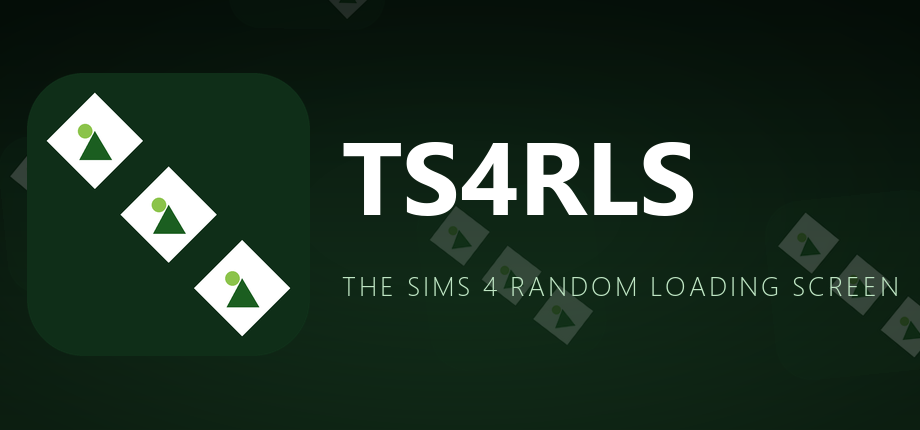
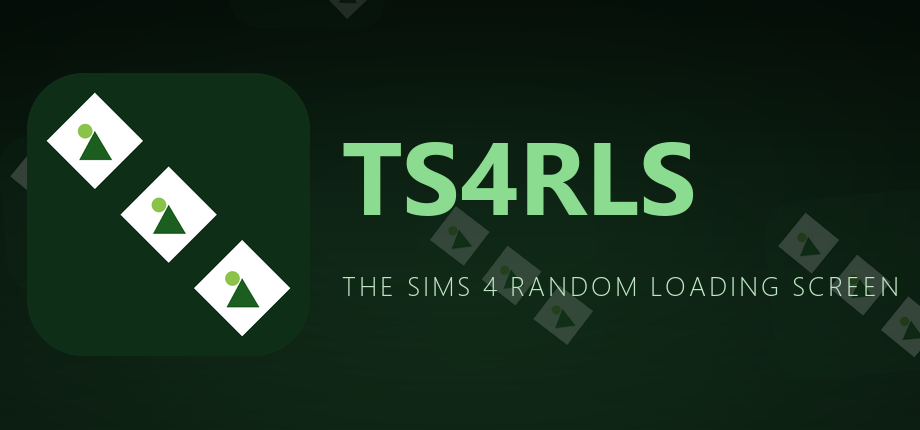
Release v2.0.3
See CHANGELOG.md for details.

Changed region(s): [[0.3652, 0.3326, 0.7609, 0.514]]

diff --git a/CHANGELOG.md b/CHANGELOG.md
@@ -14,8 +14,13 @@ feature additions, PATCH marks fixes.
   fixed-width image with a large empty margin on the right.
 - `assets/steam/logo_dark.png`/`logo_light.png` (the Steam "Library logo"
   slot) was missing the "TS4RLS" shortcode entirely (subtitle only) —
-  added it back in a lighter green readable against the transparent
-  background regardless of what it's composited over.
+  added it back.
+- All four `assets/steam/*_dark.png`/`*_light.png` assets (cover, wide
+  cover, background, logo) now use the same green-tinted title/subtitle
+  colors — `cover.png`/`wide_cover.png` previously used plain
+  white/near-black text, inconsistent with the logo asset.
+- `assets/logo_dark.png`/`logo_light.png` (the top-level wordmark) now use
+  the exact same green-tint text colors as their `assets/steam/` counterparts.
 
 ## [2.0.2] - 2026-09-10
 

diff --git a/README.md b/README.md
@@ -9,7 +9,7 @@
 
 Automatically picks a random image from a folder and installs it as your Sims 4 loading screen mod — run it before launching the game and get a fresh screen every time.
 
-**Version 2.0.2** — see [CHANGELOG.md](CHANGELOG.md) for release history.
+**Version 2.0.3** — see [CHANGELOG.md](CHANGELOG.md) for release history.
 
 Website: https://ts4rls.stuxie.dev  
 Repository: https://github.com/TS4RLS/Engine  

diff --git a/VERSION.md b/VERSION.md
@@ -1,1 +1,1 @@
-2.0.2
+2.0.3
